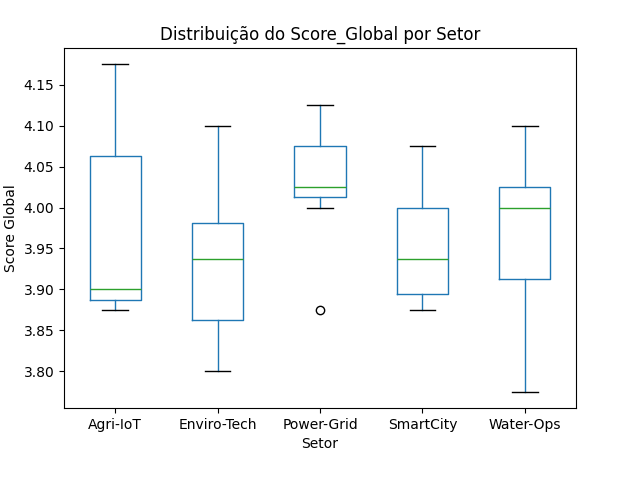
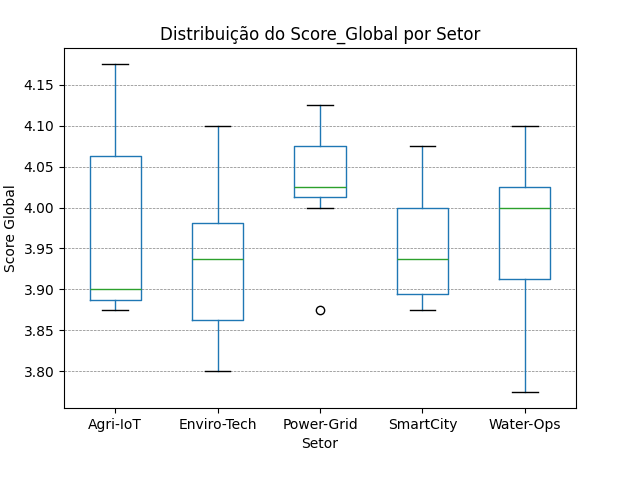
feat: Implement startup data analysis script to calculate global scores, generate radar charts, and produce sector boxplots.

diff --git a/startup_project/proj.py b/startup_project/proj.py
@@ -64,7 +64,8 @@ angles += angles[:1]
 fig, ax = plt.subplots(figsize=(6, 6), subplot_kw=dict(polar=True))
 ax.fill(angles, values, color='blue', alpha=0.25)
 ax.plot(angles, values, color='blue', linewidth=2)
-ax.set_yticklabels([])
+ax.set_yticks([1, 2, 3, 4, 5])
+ax.set_yticklabels(['1', '2', '3', '4', '5'], color='gray')
 ax.set_ylim(0, 5) # Garantir escala de 0 a 5
 ax.set_xticks(angles[:-1])
 ax.set_xticklabels(categories)
@@ -80,6 +81,7 @@ df_sectors = df_ativa # Usar todas as startups ativas para comparar todos os set
 plt.figure(figsize=(8, 6))
 df_sectors.boxplot(column='Score_Global', by='setor', grid=False)
 plt.title('Distribuição do Score_Global por Setor')
+plt.grid(axis='y', color='gray', linestyle='--', linewidth=0.5 )
 plt.suptitle('') # Remove o título automático do pandas
 plt.ylabel('Score Global')
 plt.xlabel('Setor')
